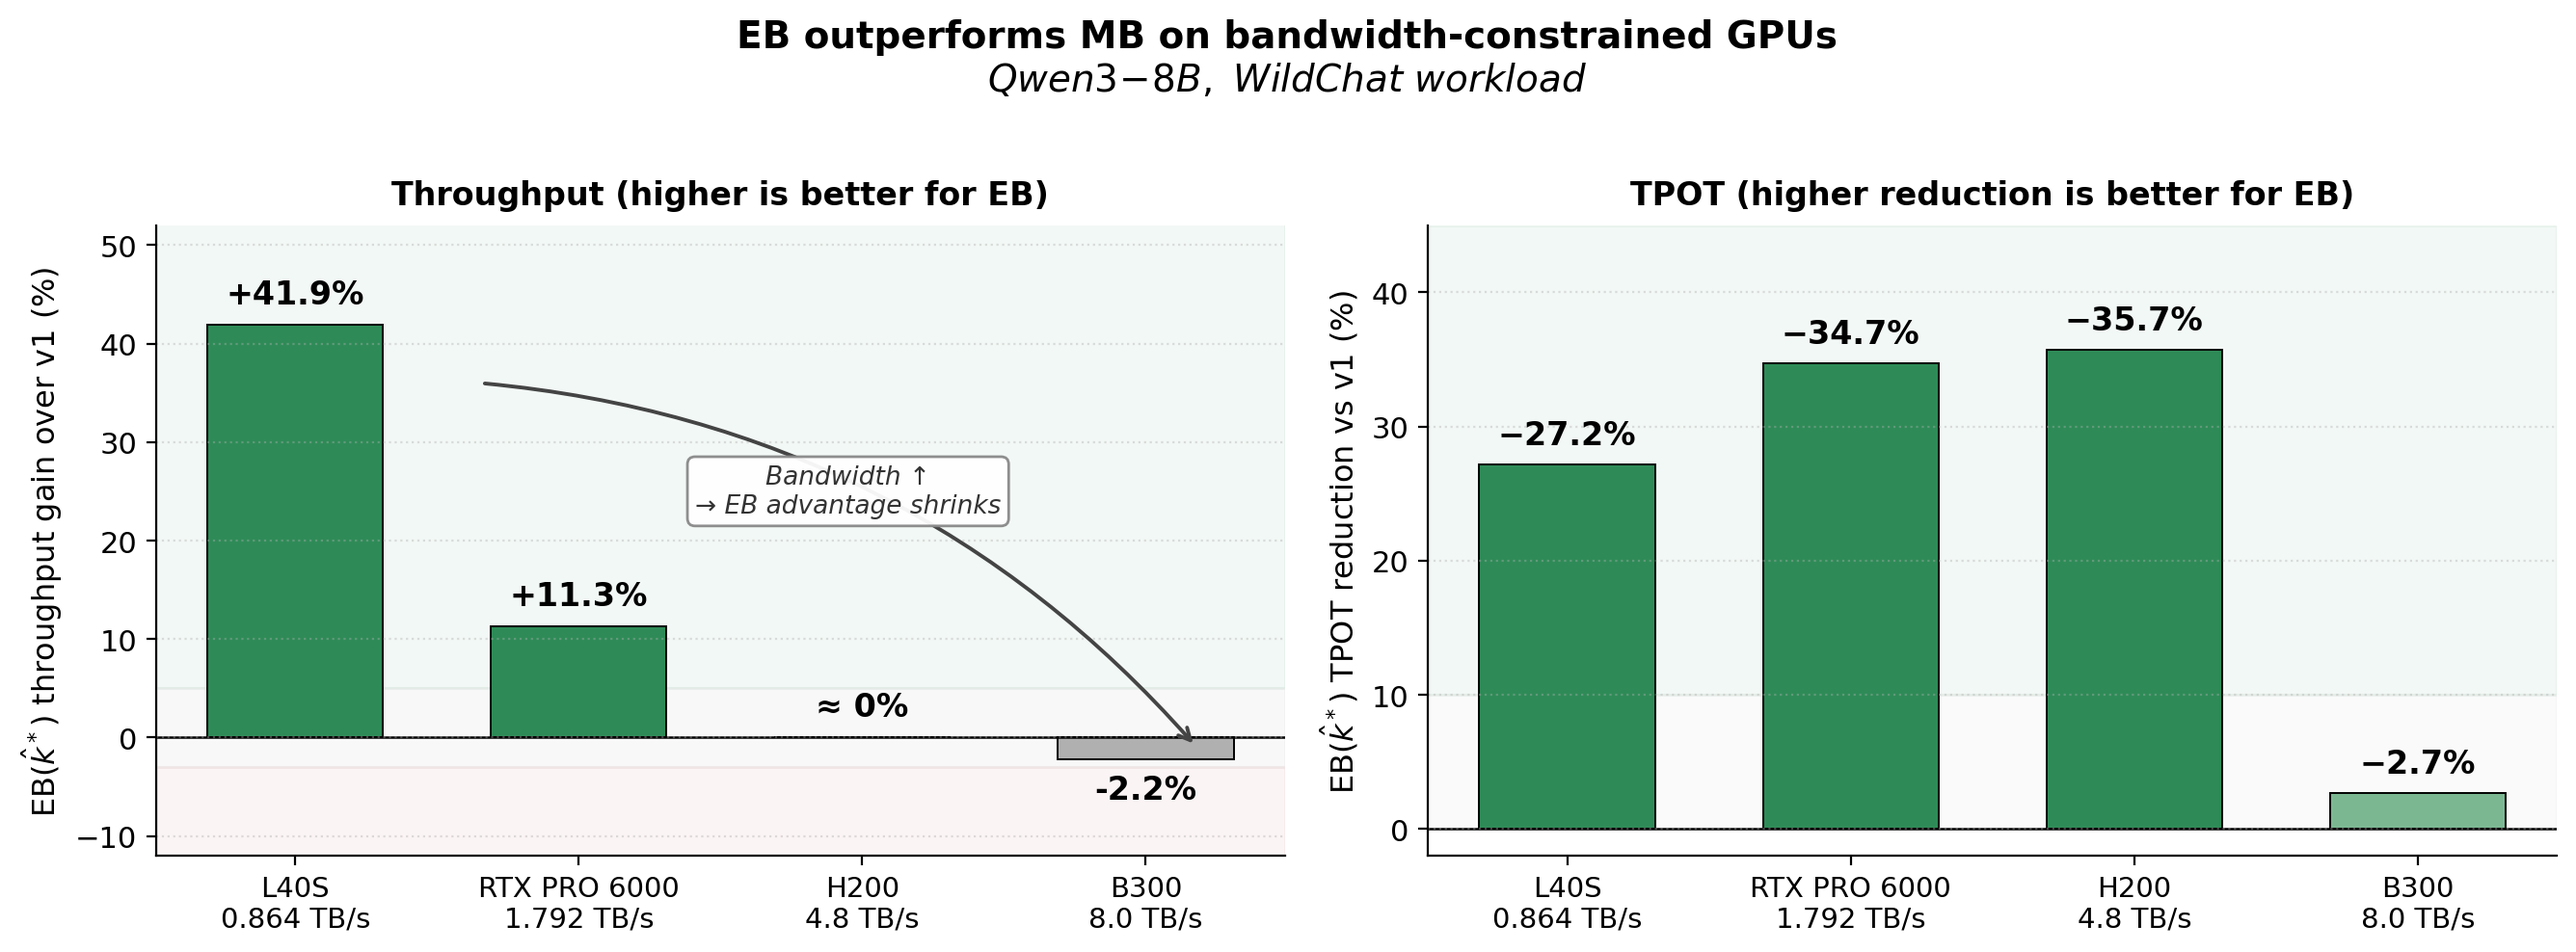
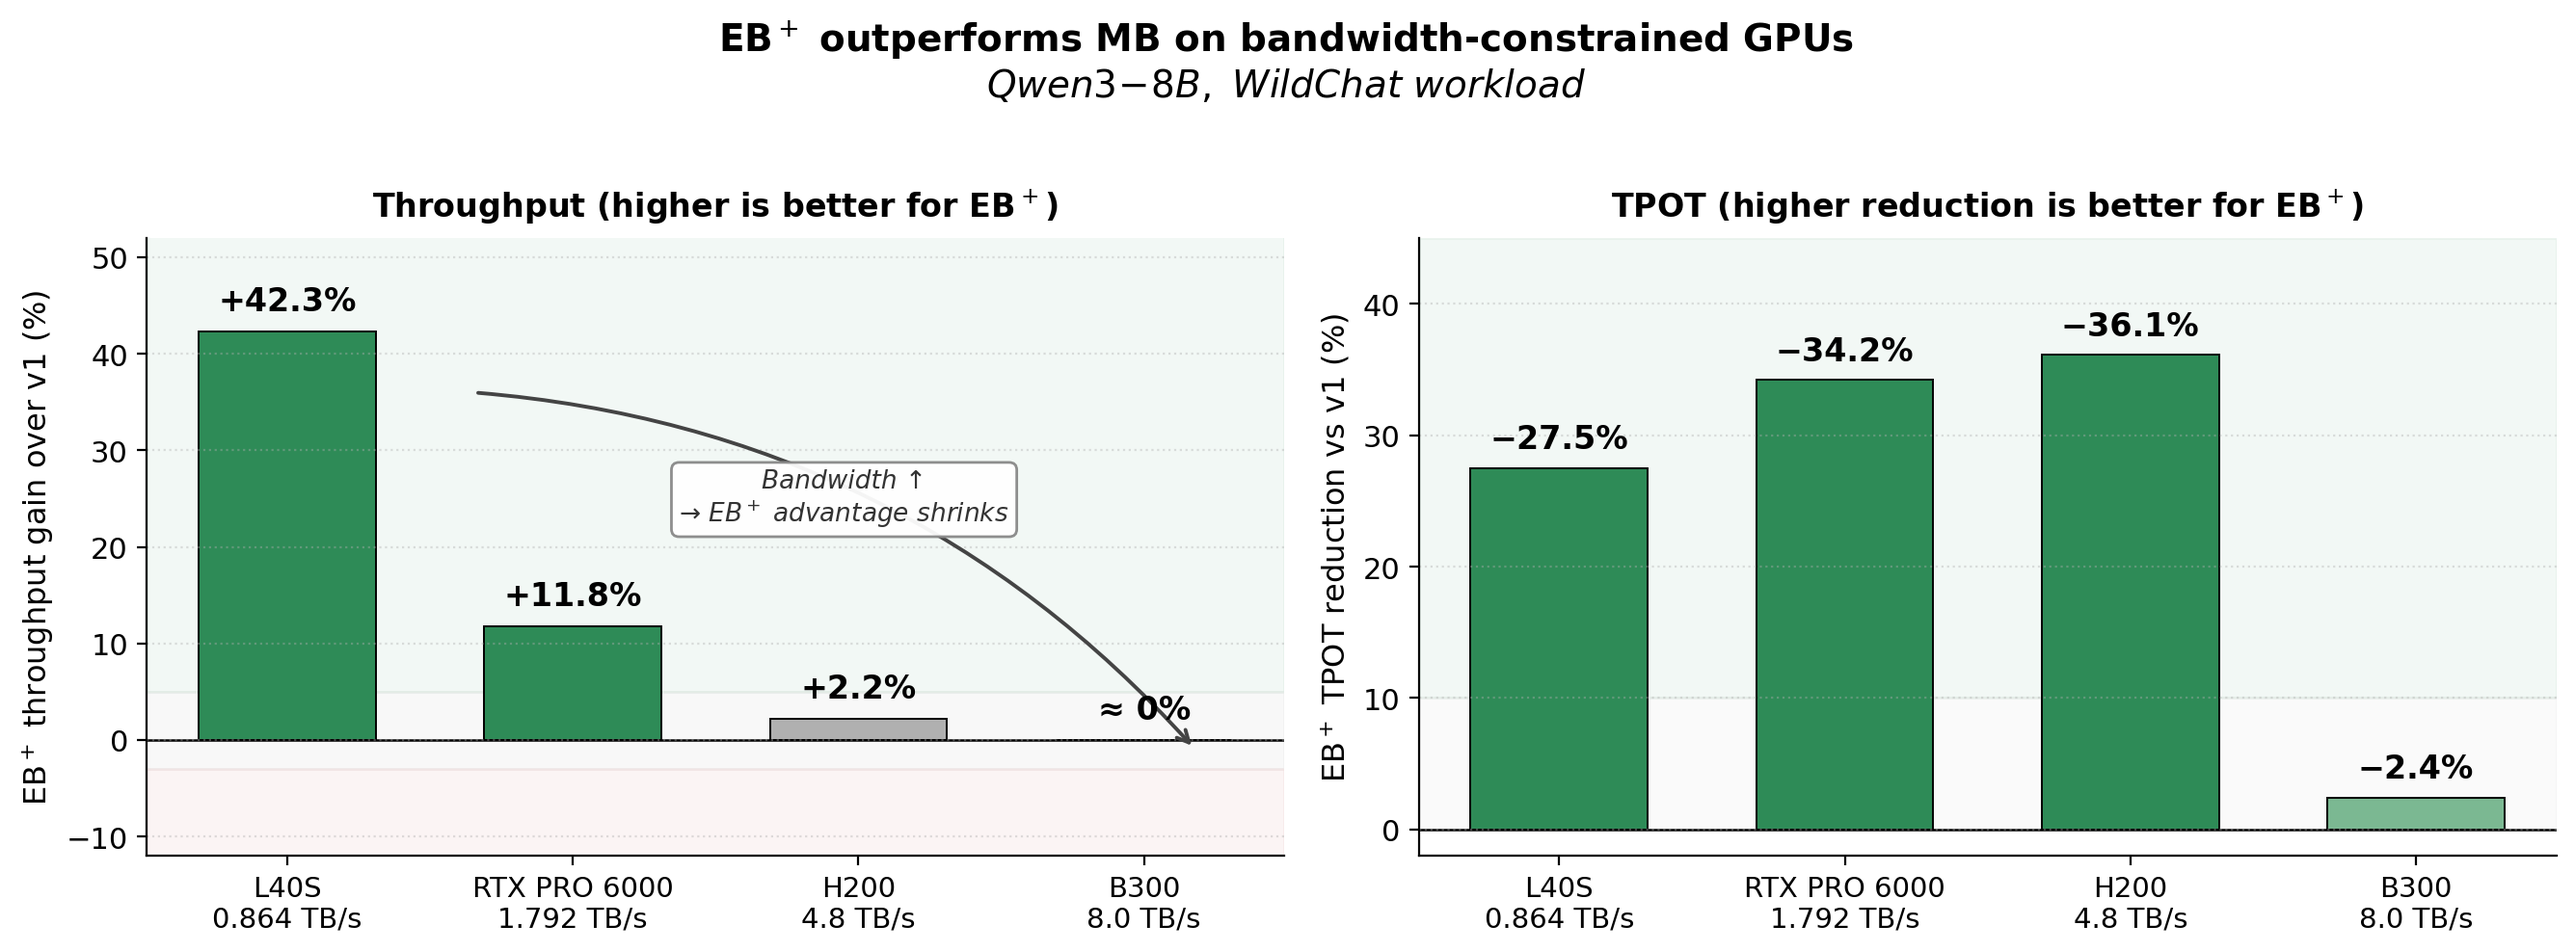
Header figure + table: switch from EB(k̂*) to EB+
The header figure now visualizes EB+ (hybrid) vs v1 gains rather than
EB(k̂*) alone. Because EB+ tracks max(EB, MB), throughput on
high-bandwidth GPUs is approximately tied with v1 (H200 +2.2%,
B300 ≈ 0%) while bandwidth-constrained GPUs still capture EB's gain.
The README Headline-results table is rewritten to use the same EB+
numbers for consistency.

diff --git a/assets/make_header_figure.py b/assets/make_header_figure.py
@@ -1,5 +1,11 @@
 #!/usr/bin/env python3
-"""Dual-panel README header: Throughput gain + TPOT reduction vs GPU bandwidth."""
+"""Dual-panel README header: EB+ Throughput gain + TPOT reduction vs GPU bandwidth.
+
+Numbers reflect EB+ (hybrid) vs v1 (MB) on WildChat-like workloads. Because
+EB+ by construction picks max(EB, MB), throughput on high-bandwidth GPUs
+(H200, B300) is approximately tied with v1 (gains near 0%), while on
+bandwidth-constrained GPUs (L40S, RTX PRO 6000) it captures EB's gain.
+"""
 import matplotlib.pyplot as plt
 import numpy as np
 
@@ -10,14 +16,12 @@ plt.rcParams.update({
     "axes.spines.right": False,
 })
 
-# (GPU, BW TB/s, Throughput gain %, TPOT reduction %)
-# Throughput: WildChat (L40S, B300 from Table 6; RTX 6000 from §4.3.2; H200 ≈ 0)
-# TPOT: WildChat (Table 6 for L40S, B300; §4.3.3 for RTX 6000, H200)
+# (GPU, BW TB/s, EB+ Throughput gain %, EB+ TPOT reduction %)
 data = [
-    ("L40S",         0.864,  41.9, 27.2),   # Table 6
-    ("RTX PRO 6000", 1.792,  11.3, 34.7),   # §4.3.2 + §4.3.3
-    ("H200",         4.8,     0.0, 35.7),   # ≈ 0 throughput; §4.3.3 TPOT
-    ("B300",         8.0,    -2.2,  2.7),   # Table 6
+    ("L40S",         0.864,  42.3, 27.5),
+    ("RTX PRO 6000", 1.792,  11.8, 34.2),
+    ("H200",         4.8,     2.2, 36.1),
+    ("B300",         8.0,     0.0,  2.4),
 ]
 
 fig, (axL, axR) = plt.subplots(1, 2, figsize=(13.5, 4.8), dpi=150)
@@ -48,7 +52,8 @@ axL.axhline(0, color="black", linewidth=0.9, zorder=1)
 
 for i, (bar, g) in enumerate(zip(bars_th, tps)):
     h = bar.get_height()
-    label = "≈ 0%" if gpus[i] == "H200" else f"{g:+.1f}%"
+    # Show ≈ 0% for the high-bandwidth B300 cell where EB+ effectively ties v1
+    label = "≈ 0%" if gpus[i] == "B300" else f"{g:+.1f}%"
     if h >= 0:
         axL.text(bar.get_x() + bar.get_width()/2, h + 1.5, label,
                  ha="center", va="bottom", fontsize=12, fontweight="bold")
@@ -59,18 +64,18 @@ for i, (bar, g) in enumerate(zip(bars_th, tps)):
 axL.set_xticks(x)
 axL.set_xticklabels([f"{gpu}\n{bw} TB/s" for gpu, bw in zip(gpus, bws)],
                     fontsize=10.5)
-axL.set_ylabel(r"EB($\hat{k}^*$) throughput gain over v1 (%)", fontsize=11.5)
+axL.set_ylabel(r"EB$^+$ throughput gain over v1 (%)", fontsize=11.5)
 axL.set_ylim(-12, 52)
 axL.set_yticks(range(-10, 51, 10))
 axL.grid(axis="y", linestyle=":", alpha=0.4, zorder=0)
-axL.set_title("Throughput (higher is better for EB)",
+axL.set_title("Throughput (higher is better for EB$^+$)",
               fontsize=12, fontweight="bold", pad=8)
 
 # Trend annotation
 axL.annotate("", xy=(3.18, -1), xytext=(0.65, 36),
              arrowprops=dict(arrowstyle="->", color="#444", lw=1.4,
                              connectionstyle="arc3,rad=-0.20"), zorder=2)
-axL.text(1.95, 25, "Bandwidth ↑\n→ EB advantage shrinks",
+axL.text(1.95, 25, "Bandwidth ↑\n→ EB$^+$ advantage shrinks",
          fontsize=9.5, color="#333", style="italic", ha="center", va="center",
          bbox=dict(boxstyle="round,pad=0.3", facecolor="white",
                    edgecolor="#888", alpha=0.95), zorder=3)
@@ -90,21 +95,21 @@ for i, (bar, t) in enumerate(zip(bars_tpot, tpots)):
 axR.set_xticks(x)
 axR.set_xticklabels([f"{gpu}\n{bw} TB/s" for gpu, bw in zip(gpus, bws)],
                     fontsize=10.5)
-axR.set_ylabel(r"EB($\hat{k}^*$) TPOT reduction vs v1 (%)", fontsize=11.5)
+axR.set_ylabel(r"EB$^+$ TPOT reduction vs v1 (%)", fontsize=11.5)
 axR.set_ylim(-2, 45)
 axR.set_yticks(range(0, 46, 10))
 axR.grid(axis="y", linestyle=":", alpha=0.4, zorder=0)
-axR.set_title("TPOT (higher reduction is better for EB)",
+axR.set_title("TPOT (higher reduction is better for EB$^+$)",
               fontsize=12, fontweight="bold", pad=8)
 
 # (No annotation box on TPOT panel — title + data labels suffice.)
 
 # Suptitle
-fig.suptitle("EB outperforms MB on bandwidth-constrained GPUs\n"
+fig.suptitle("EB$^+$ outperforms MB on bandwidth-constrained GPUs\n"
              r"$\it{Qwen3\!-\!8B,\ WildChat\ workload}$",
              fontsize=14, fontweight="bold", y=1.02)
 
 plt.tight_layout()
-out_path = "/tmp/eb_vllm_header_v2_dual.png"
+out_path = "/data/yuzhou/projects/aproj/vllm-sched/eb-vllm/assets/eb_vllm_header.png"
 plt.savefig(out_path, dpi=200, bbox_inches="tight", facecolor="white")
 print(f"Saved: {out_path}")
